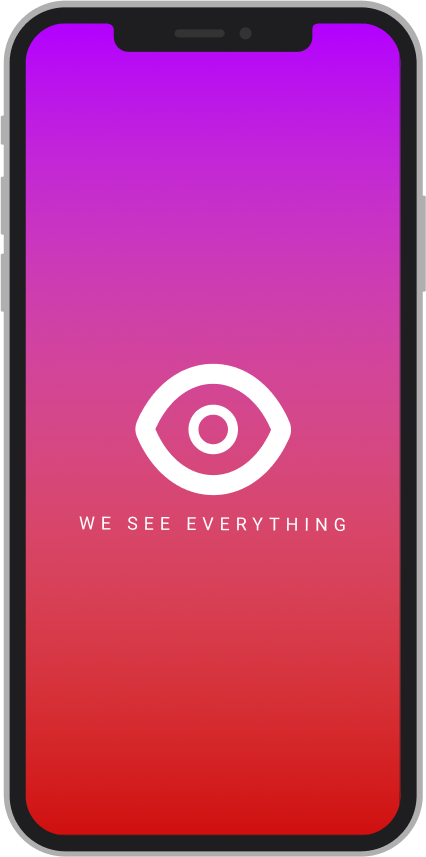
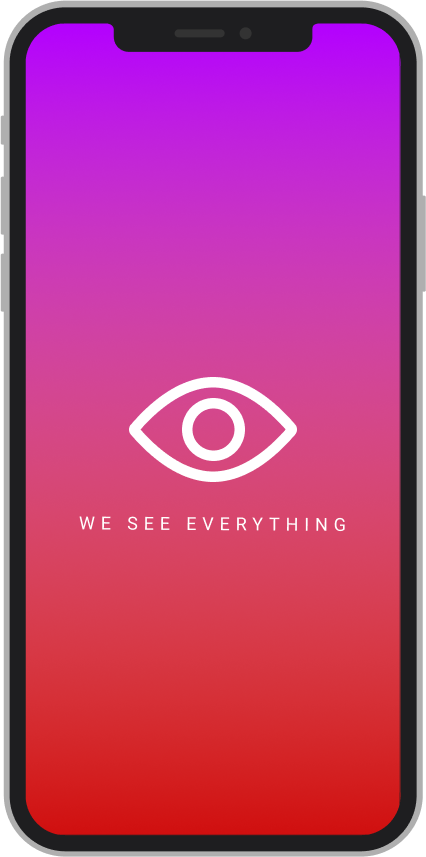
xphone

Changed region(s): [[0.3052, 0.4247, 0.7019, 0.5764]]

diff --git a/frontend/index.html b/frontend/index.html
@@ -11,16 +11,16 @@
 <body>
     <nav class="nav-bar fadein">
         <ul>
-            <svg class="nav-icon" width="60" height="75" viewBox="0 0 300 300" fill="none"
+            <svg class="nav-icon" width="60" height="75 " viewBox="0 0 300 300" fill="none"
                 xmlns="http://www.w3.org/2000/svg">
                 <circle cx="150" cy="150" r="150" fill="#D00F0F" />
                 <circle cx="150" cy="150" r="150" fill="url(#paint0_linear)" />
-                <path fill-rule="evenodd" clip-rule="evenodd"
-                    d="M170.209 150.903C170.143 161.815 161.239 170.605 150.327 170.539C139.415 170.473 130.625 161.576 130.69 150.664C130.756 139.745 139.653 130.955 150.566 131.021C161.478 131.087 170.274 139.984 170.209 150.903Z"
-                    stroke="white" stroke-width="10" stroke-linecap="round" stroke-linejoin="round" />
                 <path
-                    d="M150.756 95.1454C121.708 94.9903 96.9174 115.656 83.4742 146.43C82.3761 148.944 82.3589 151.798 83.4265 154.325C96.4971 185.259 121.036 206.223 150.084 206.418L150.756 95.1454ZM217.472 147.239C204.402 116.305 179.863 95.3414 150.815 95.1458L150.143 206.419C179.191 206.574 203.982 185.908 217.425 155.134C218.523 152.62 218.54 149.766 217.472 147.239Z"
-                    stroke="white" stroke-width="20" stroke-linecap="round" stroke-linejoin="round" />
+                    d="M232.212 144.513C205.459 113.275 177.117 97 150.099 97C123.082 97 94.7395 113.275 67.9866 144.513C65.3378 147.4 65.3378 151.862 67.9866 154.75C94.7395 185.725 123.082 202 150.099 202C177.117 202 205.459 185.725 232.212 154.488C234.596 151.6 234.596 147.4 232.212 144.513ZM150.099 191.5C127.055 191.5 101.361 176.537 77.5223 149.5C101.361 122.462 127.055 107.5 150.099 107.5C173.144 107.5 198.837 122.462 222.676 149.5C198.837 176.537 173.144 191.5 150.099 191.5Z"
+                    fill="white" />
+                <path
+                    d="M150.5 118C133.175 118 119 132.175 119 149.5C119 166.825 133.175 181 150.5 181C167.825 181 182 166.825 182 149.5C182 132.175 167.825 118 150.5 118ZM150.5 170.5C138.95 170.5 129.5 161.05 129.5 149.5C129.5 137.95 138.95 128.5 150.5 128.5C162.05 128.5 171.5 137.95 171.5 149.5C171.5 161.05 162.05 170.5 150.5 170.5Z"
+                    fill="white" />
                 <defs>
                     <linearGradient id="paint0_linear" x1="150" y1="0" x2="150" y2="300" gradientUnits="userSpaceOnUse">
                         <stop stop-color="#B300FF" />
@@ -28,14 +28,12 @@
                     </linearGradient>
                 </defs>
             </svg>
-
-
-            <li><a class="nav-link" href="#link1">link1</a></li>
+            <li><a class="nav-link" href="#xphone-info">XPhone Pro</a></li>
             <li><a class="nav-link" href="#link2">link2</a></li>
             <li><a class="nav-link" href="#link3">link3</a></li>
         </ul>
     </nav>
-    <section id="hero">
+    <section id="hero" class="fadein">
         <div id="hero-text">
             <h1>The new XPhone Orp</h1>
             <p>Lorem ipsum dolor sit amet, consectetur adipiscing elit, sed do eiusmod tempor incididunt ut labore et
@@ -43,11 +41,68 @@
                 ex ea commodo consequat. Duis aute irure dolor in reprehenderit in voluptate velit esse cillum dolore eu
                 fugiat nulla pariatur. Excepteur sint occaecat cupidatat non proident, sunt in culpa qui officia
                 deserunt mollit anim id est laborum.</p>
-            <button>Buy now</button>
+            <div>
+                <button class="button"><a>Buy Now</a></button>
+                <button class="button"><a href="#xphone-info">See more</a></button>
+            </div>
         </div>
         <img id="xphone-orp-hero" src="./media/XPhone.png" alt="The new XPhone Orp">
     </section>
+    <section id="xphone-info">
+        <div id="xphone-container">
+            <img id="xphone-orp-pic" src="./media/XPhone.png" alt="The new XPhone Orp">
+            <div id="xphone-info-textarea">
+                <h1>The brand new XPhone Orp</h1>
+                <h2>Exactly like the old one but this time with more clout.</h2>
+                <h2>Specsheet</h2>
+                <h3>Kryptonite&#8482; Mk. XII Comet Hexaquadrillion Core Processor</h3>
+                <h3>Infinity&#8482; Mk. V Apollo GPU with 128 CUDA Cores</h3>
+                <h3>69.42 MP Camera Sensor</h3>
+                <h3>128/256/512GB Storage</h3>
+                <h3>16/32/64GB RAM</h3>
+                <h3>Just buy it already!</h3>
+                <h6>You know you want to!</h6>
+            </div>
+        </div>
+    </section>
+
     <section class="card-grid">
+        <article class="card">
+            <img class="card-thumb" src="">
+            <h2>M133 Canban Board</h2>
+            <p>This project is part of Module 113 at the BBZW Sursee. We were tasked to build a simple Canban
+                Board
+                using what we learned in the course.</p>
+            <div class="card-icons">
+                <div class="card-icon">
+                    <a class="repo-link" target="_blank" href="https://github.com/Zayden16/m133-canban-board"><i
+                            class='fab fa-github'></i>
+                    </a>
+                </div>
+                <div class="card-icon">
+                    <a class="repo-link" target="_blank" href="https://canban.zayden.ch/"><i class='fas fa-eye'></i>
+                    </a>
+                </div>
+            </div>
+        </article>
+        <article class="card">
+            <img class="card-thumb" src="">
+            <h2>M133 Canban Board</h2>
+            <p>This project is part of Module 113 at the BBZW Sursee. We were tasked to build a simple Canban
+                Board
+                using what we learned in the course.</p>
+            <div class="card-icons">
+                <div class="card-icon">
+                    <a class="repo-link" target="_blank" href="https://github.com/Zayden16/m133-canban-board"><i
+                            class='fab fa-github'></i>
+                    </a>
+                </div>
+                <div class="card-icon">
+                    <a class="repo-link" target="_blank" href="https://canban.zayden.ch/"><i class='fas fa-eye'></i>
+                    </a>
+                </div>
+            </div>
+        </article>
         <article class="card">
             <img class="card-thumb" src="">
             <h2>M133 Canban Board</h2>

diff --git a/frontend/styles.css b/frontend/styles.css
@@ -21,6 +21,33 @@ body {
     width: 100%;
 }
 
+/* ----------------------------------------------------------- Universal -------------------------------------------------------- */
+
+section{
+    height: auto;
+    display: flex;
+    background: var(--dark-grey);
+}
+
+.button{
+    width: 10vw;
+    height: 50px;
+    border: none;
+    text-transform: uppercase;
+    color: white;
+    border-radius: 32px;
+    background: linear-gradient(90deg, rgba(208,15,15,1) 0%, rgba(179,0,255,1) 100%);
+    transition: 0.5s;
+    font-weight: 500;
+}
+.button a{
+    text-decoration: none;
+    color: white;
+}
+.button:hover{
+    transform: scale(1.1);
+}
+
 /* ----------------------------------------------------------- Navbar ----------------------------------------------------------- */
 
 .nav-bar {
@@ -55,7 +82,7 @@ body {
     display: flex;
     justify-content: center;
     align-items: center;
-    width: 75px;
+    width: 6vw;
     transition: 0.5s;
 }
 
@@ -66,13 +93,14 @@ body {
 }
 
 .nav-bar li:hover{
-    background-color: var(--pruple-light);
+    background: linear-gradient(90deg, rgba(208,15,15,1) 0%, rgba(179,0,255,1) 100%);
     transform: scale(1.1);
 }
 
 /* --------------------------------------------------- Hero --------------------------------------------------------------------- */
 
 #hero{
+    background: white;
     height: 90%;
     width: 100%;
     display: flex;
@@ -98,23 +126,34 @@ body {
     height: 70vh;
     transform: rotate(20deg);
 }
+/* --------------------------------------------------- XPhone Info -------------------------------------------------------------- */
 
-#hero button{
-    width: 200px;
-    height: 50px;
-    border: none;
-    text-transform: uppercase;
-    color: white;
-    border-radius: 32px;
-    background: linear-gradient(90deg, rgba(208,15,15,1) 0%, rgba(179,0,255,1) 100%);
-    transition: 0.5s;
-    font-weight: 500;
+#xphone-info{
+    flex-direction: row;
+    align-items: center;
+    justify-content: center;
 }
 
-#hero button:hover{
-    transform: scale(1.1);
- 
+#xphone-container{
+    display: flex;
+    margin: 5%;
 }
+
+#xphone-info-textarea{
+    display: flex;
+    flex-direction: column;
+    margin-left: 10vh;
+}
+
+#xphone-info h1{
+    font-size: 6vh;
+}
+
+#xphone-orp-pic{
+    height: 40vw;
+    margin-left: 50px;
+}
+
 /* --------------------------------------------------- Card Component ----------------------------------------------------------- */
 
 .card {
